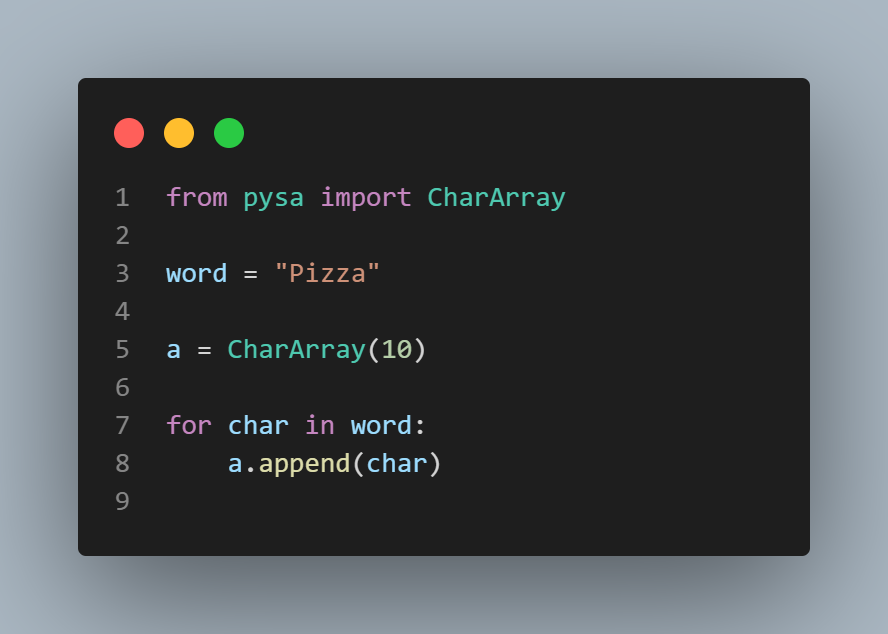
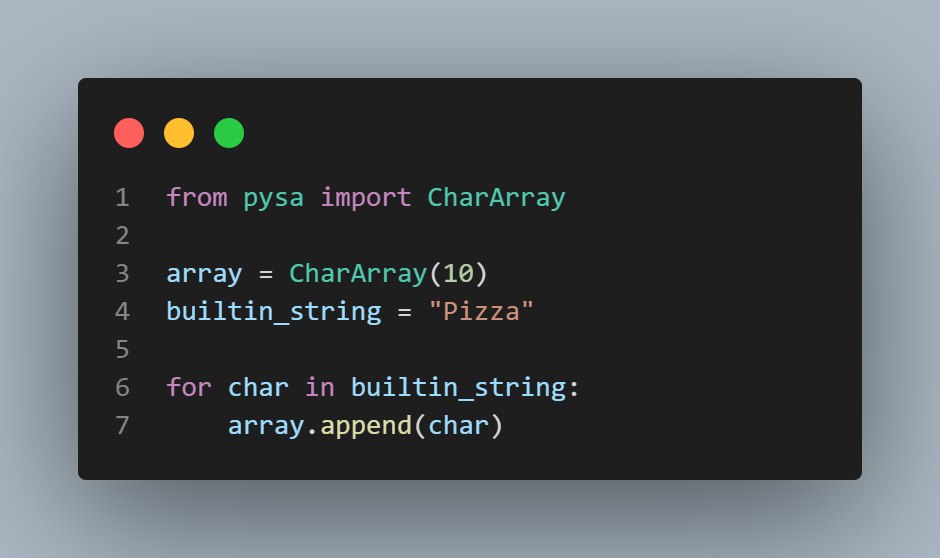
docs(Root): Improve readability of both examples

diff --git a/example02.py b/example02.py
@@ -1,18 +1,17 @@
 import sys
 from pysa import CharArray
 
-word = "Pizza"
+array = CharArray(10)
+builtin_string = "Pizza"
 
-a = CharArray(10)
-
-for char in word:
-    a.append(char)
+for char in builtin_string:
+    array.append(char)
 
 print(f"""
-SmallArray: {a}
-Decoded SmallArray: '{a.to_string()}'
-Size: {a.get_size()}
+CharArray: {array}
+Decoded CharArray: '{array.to_string()}'
+CharArray memory usage: {array.get_size()}
 
-Built-in string: '{word}'
-Built-in string size: {sys.getsizeof(word)}
+Built-in string: '{builtin_string}'
+Built-in string memory usage: {sys.getsizeof(builtin_string)}
 """)

diff --git a/example01.py b/example01.py
@@ -2,13 +2,13 @@ import sys
 
 from pysa import IntArray
 
-a = IntArray(10)
-b = [1] * 10000
+array = IntArray(10)
+builtin_list = [1] * 10000
 
-for element in b:
-    a.append(element)
+for element in builtin_list:
+    array.append(element)
 
-print("IntArray memory usage:", a.get_size())
-print("Builtin List memory usage:", sys.getsizeof(b))
+print("IntArray memory usage:", array.get_size())
+print("Builtin list memory usage:", sys.getsizeof(builtin_list))
 
-print(a[4])
+print(array[4])
